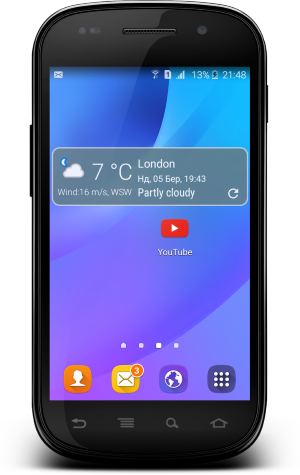
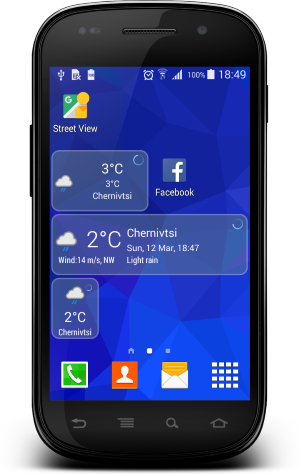
update widget

diff --git a/app/src/main/java/com/havrylyuk/weather/widget/TodayWidgetIntentService.java b/app/src/main/java/com/havrylyuk/weather/widget/TodayWidgetIntentService.java
@@ -1,5 +1,6 @@
 package com.havrylyuk.weather.widget;
 
+import android.annotation.TargetApi;
 import android.app.IntentService;
 import android.app.PendingIntent;
 import android.appwidget.AppWidgetManager;
@@ -7,8 +8,12 @@ import android.content.ComponentName;
 import android.content.Intent;
 import android.graphics.Bitmap;
 import android.net.Uri;
+import android.os.Build;
+import android.os.Bundle;
 import android.support.annotation.Nullable;
+import android.util.DisplayMetrics;
 import android.util.Log;
+import android.util.TypedValue;
 import android.view.View;
 import android.widget.RemoteViews;
 
@@ -70,6 +75,8 @@ public class TodayWidgetIntentService extends IntentService {
             String wind = null;
             String weatherIcon = null;
             String formatTemp = null;
+            String formatTempMax = null;
+            String formatTempMin = null;
             if (ormCity != null) {
                  cityName = ormCity.getCity_name();
                  OrmWeather ormWeather = localDataSource.getSingleForecast(ormCity.get_id());
@@ -79,11 +86,25 @@ public class TodayWidgetIntentService extends IntentService {
                      wind = getString(R.string.format_wind, ormWeather.getWind_speed(),
                              isMetric?"m/s":"mph", ormWeather.getWind_dir());
                      weatherIcon = "http:" + ormWeather.getIcon();
-                    formatTemp = getString(R.string.format_widget_temperature, ormWeather.getTemp(),isMetric?"°C":"°F");
+                     formatTemp = getString(R.string.format_widget_temperature, ormWeather.getTemp(),isMetric?"°C":"°F");
+                     formatTempMax = getString(R.string.format_widget_temperature, ormWeather.getTemp_max(),isMetric?"°C":"°F");
+                     formatTempMin = getString(R.string.format_widget_temperature, ormWeather.getTemp_min(),isMetric?"°C":"°F");
                 }
               }
             for (int appWidgetId : appWidgetIds) {
-                    final RemoteViews views = new RemoteViews(getPackageName(), R.layout.widget_today_large);
+                int widgetWidth = getWidgetWidth(appWidgetManager, appWidgetId);
+                int defaultWidth = getResources().getDimensionPixelSize(R.dimen.widget_today_default_width);
+                int largeWidth = getResources().getDimensionPixelSize(R.dimen.widget_today_large_width);
+                int layoutId;
+                if (widgetWidth >= largeWidth) {
+                    layoutId = R.layout.widget_today_large;
+                } else if (widgetWidth >= defaultWidth) {
+                    layoutId = R.layout.widget_today;
+                } else {
+                    layoutId = R.layout.widget_today_small;
+                }
+                final RemoteViews views = new RemoteViews(getPackageName(), layoutId);
+                    //final RemoteViews views = new RemoteViews(getPackageName(), R.layout.widget_today_large);
                     views.setViewVisibility(R.id.widget_button_update, sync ? View.GONE : View.VISIBLE);
                     views.setViewVisibility(R.id.widget_progress_bar, sync ? View.VISIBLE : View.GONE);
                     setRemoteContentDescription(views, description);
@@ -92,6 +113,8 @@ public class TodayWidgetIntentService extends IntentService {
                     if (cityName!=null) views.setTextViewText(R.id.widget_city_name, cityName);
                     if (date!=null) views.setTextViewText(R.id.widget_weather_date, date);
                     if (formatTemp!=null) views.setTextViewText(R.id.widget_high_temperature, formatTemp);
+                    if (formatTempMax!=null) views.setTextViewText(R.id.widget_max_temperature, formatTempMin);
+                    if (formatTempMin!=null) views.setTextViewText(R.id.widget_low_temperature, formatTempMin);
                     if (weatherIcon != null) loadWeatherIcon(appWidgetManager, appWidgetId, views, weatherIcon);
                     // Create an Intent to launch CitiesActivity
                     Intent launchIntent = new Intent(this, CitiesActivity.class);
@@ -147,4 +170,19 @@ public class TodayWidgetIntentService extends IntentService {
         views.setContentDescription(R.id.widget_icon, description);
     }
 
+    private int getWidgetWidth(AppWidgetManager appWidgetManager, int appWidgetId) {
+        return getWidgetWidthFromOptions(appWidgetManager, appWidgetId);
+    }
+
+    @TargetApi(Build.VERSION_CODES.JELLY_BEAN)
+    private int getWidgetWidthFromOptions(AppWidgetManager appWidgetManager, int appWidgetId) {
+        Bundle options = appWidgetManager.getAppWidgetOptions(appWidgetId);
+        if (options.containsKey(AppWidgetManager.OPTION_APPWIDGET_MIN_WIDTH)) {
+            int minWidthDp = options.getInt(AppWidgetManager.OPTION_APPWIDGET_MIN_WIDTH);
+            DisplayMetrics displayMetrics = getResources().getDisplayMetrics();
+            return (int) TypedValue.applyDimension(TypedValue.COMPLEX_UNIT_DIP, minWidthDp,
+                    displayMetrics);
+        }
+        return  getResources().getDimensionPixelSize(R.dimen.widget_today_default_width);
+    }
 }

diff --git a/app/src/main/java/com/havrylyuk/weather/service/WeatherService.java b/app/src/main/java/com/havrylyuk/weather/service/WeatherService.java
@@ -117,6 +117,7 @@ public class WeatherService extends IntentService {
 
     private OrmWeather getCurrentOrmWeather(long cityId, ForecastWeather response ) throws ParseException {
         Current current = response.getCurrent();
+        ForecastDay forecastDay = response.getForecast().getForecastday().get(0);
         OrmWeather weather = new OrmWeather();
         weather.setCity_id(cityId);
         weather.setCity_name(response.getLocation().getName());
@@ -125,6 +126,8 @@ public class WeatherService extends IntentService {
         weather.setHumidity(current.getHumidity());
         weather.setPressure(isMetric ? convertMbToMmHg(current.getPressureMb()) : current.getPressureIn());
         weather.setTemp(isMetric?current.getTempC():current.getTempF());
+        weather.setTemp_min(isMetric ?forecastDay.getDay().getMintempC():forecastDay.getDay().getMintempF());
+        weather.setTemp_max(isMetric ?forecastDay.getDay().getMaxtempC():forecastDay.getDay().getMaxtempF());
         weather.setIs_day(current.getIs_day()==1);
         weather.setIcon(current.getCondition().getIcon());
         String localizedCondition =  fileManager.getCondition(current.getCondition().getCode(), selectedLang);
